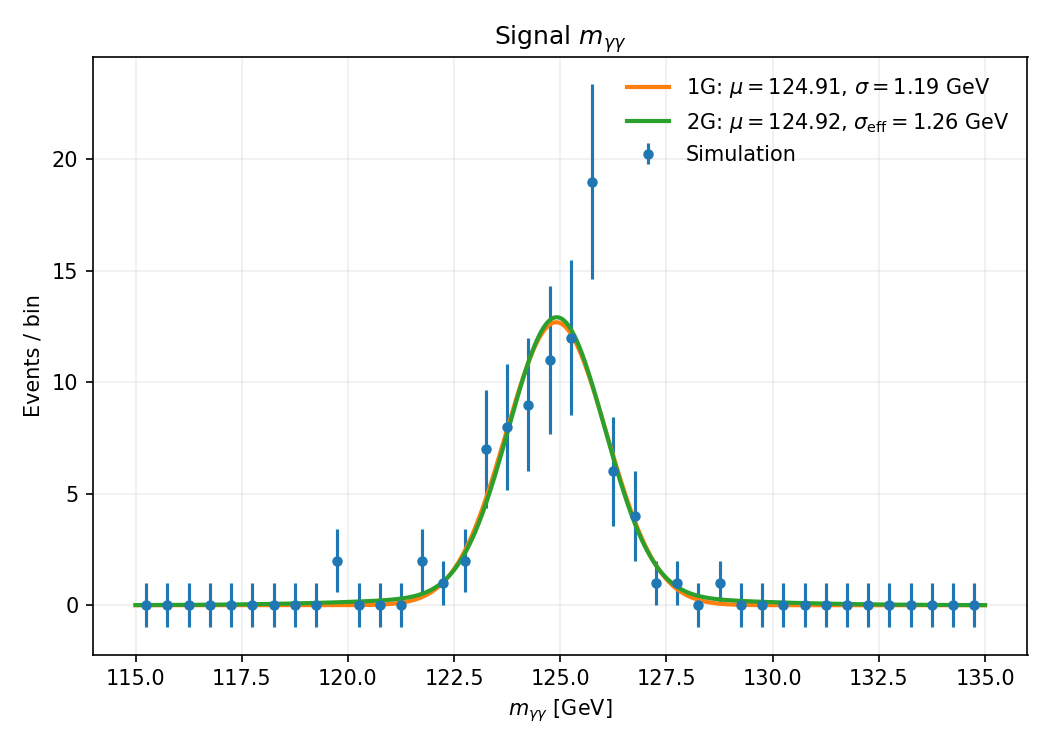
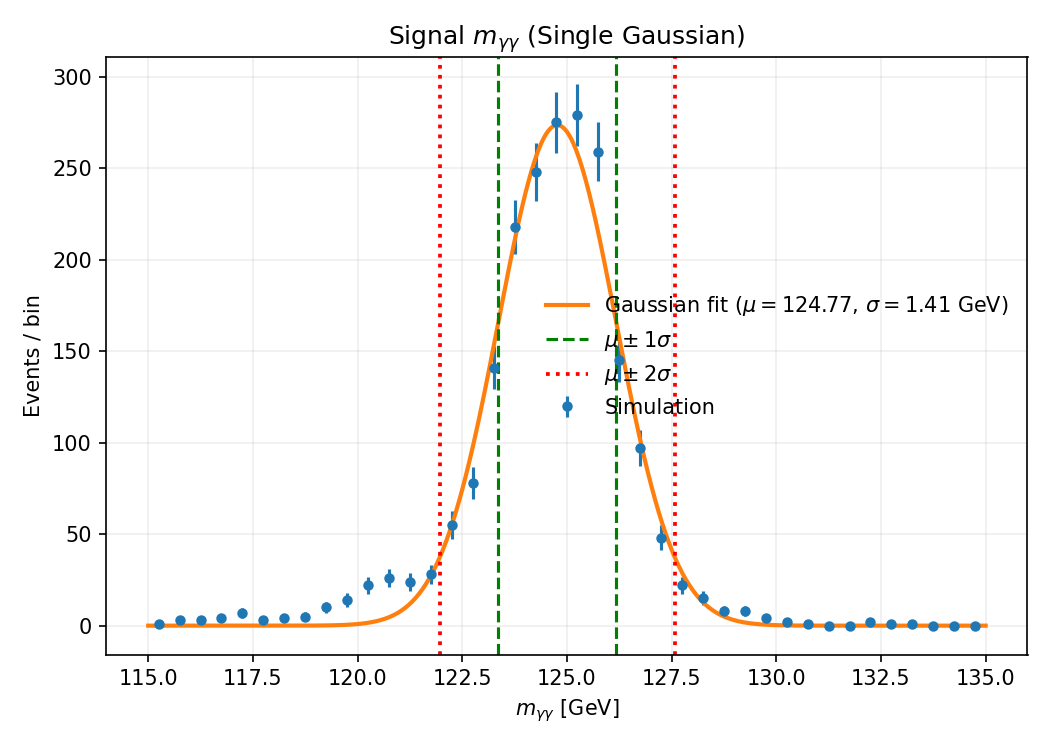
upadted

diff --git a/signal/two_sigma.py b/signal/two_sigma.py
@@ -149,24 +149,14 @@ BR_ISDATA = "isdata"
 
 
 # -----------------------
-# Gaussian models
+# Single Gaussian model
 # -----------------------
 def gauss(x, mu, sigma, norm):
     return norm * np.exp(-0.5 * ((x - mu) / sigma) ** 2)
 
 
-def double_gauss(x, mu, sigma1, sigma2, f, norm):
-    return norm * (
-        f * np.exp(-0.5 * ((x - mu) / sigma1) ** 2)
-        + (1.0 - f) * np.exp(-0.5 * ((x - mu) / sigma2) ** 2)
-    )
-
-
-# -----------------------
-# Main
-# -----------------------
 def main():
-    ap = argparse.ArgumentParser(description="Plot and fit signal mgg with Gaussians")
+    ap = argparse.ArgumentParser(description="Single-Gaussian fit and ±1σ/±2σ lines")
     ap.add_argument("--root", required=True)
     ap.add_argument("--signal-dir", required=True)
     ap.add_argument("--score-lo", type=float, default=None)
@@ -174,7 +164,7 @@ def main():
     ap.add_argument("--mgg-min", type=float, default=115.0)
     ap.add_argument("--mgg-max", type=float, default=135.0)
     ap.add_argument("--bins", type=int, default=40)
-    ap.add_argument("--out", default="signal_mgg_fit.png")
+    ap.add_argument("--out", default="mgg_single_gauss.png")
     args = ap.parse_args()
 
     # -----------------------
@@ -203,7 +193,7 @@ def main():
     mgg = ak.to_numpy(mgg)
 
     # -----------------------
-    # Mass window for fit
+    # Fit window
     # -----------------------
     fit_mask = (mgg >= args.mgg_min) & (mgg <= args.mgg_max)
     mgg_fit = mgg[fit_mask]
@@ -214,7 +204,9 @@ def main():
     # Histogram
     # -----------------------
     counts, edges = np.histogram(
-        mgg_fit, bins=args.bins, range=(args.mgg_min, args.mgg_max)
+        mgg_fit,
+        bins=args.bins,
+        range=(args.mgg_min, args.mgg_max),
     )
     centers = 0.5 * (edges[:-1] + edges[1:])
     errors = np.sqrt(np.maximum(counts, 1.0))
@@ -223,34 +215,29 @@ def main():
     # -----------------------
     # Single Gaussian fit
     # -----------------------
-    p0_1g = [125.0, 1.5, counts.sum() * binw]
-    popt_1g, _ = curve_fit(
-        gauss, centers, counts, p0=p0_1g, sigma=errors, absolute_sigma=True
-    )
+    p0 = [125.0, 1.5, counts.sum() * binw]
 
-    mu_1g, sigma_1g, _ = popt_1g
-
-    # -----------------------
-    # Double Gaussian fit
-    # -----------------------
-    p0_2g = [mu_1g, 1.0, 2.5, 0.7, counts.sum() * binw]
-    bounds = (
-        [120, 0.1, 0.1, 0.0, 0.0],
-        [130, 5.0, 10.0, 1.0, np.inf],
-    )
-
-    popt_2g, _ = curve_fit(
-        double_gauss,
+    popt, pcov = curve_fit(
+        gauss,
         centers,
         counts,
-        p0=p0_2g,
-        bounds=bounds,
+        p0=p0,
         sigma=errors,
         absolute_sigma=True,
     )
 
-    mu, s1, s2, f, _ = popt_2g
-    sigma_eff = np.sqrt(f * s1**2 + (1.0 - f) * s2**2)
+    mu, sigma, norm = popt
+    mu_err, sigma_err, _ = np.sqrt(np.diag(pcov))
+
+    m1_lo = mu - sigma
+    m1_hi = mu + sigma
+    m2_lo = mu - 2.0 * sigma
+    m2_hi = mu + 2.0 * sigma
+
+
+    print("\n[fit results]")
+    print(f"  mu    = {mu:.3f} ± {mu_err:.3f} GeV")
+    print(f"  sigma = {sigma:.3f} ± {sigma_err:.3f} GeV")
 
     # -----------------------
     # Plot
@@ -258,25 +245,29 @@ def main():
     xplot = np.linspace(args.mgg_min, args.mgg_max, 1000)
 
     plt.figure(figsize=(7, 5))
-    plt.errorbar(centers, counts, yerr=errors, fmt="o", ms=4, label="Simulation")
-
-    plt.plot(
-        xplot,
-        gauss(xplot, *popt_1g),
-        lw=2,
-        label=rf"1G: $\mu={mu_1g:.2f}$, $\sigma={sigma_1g:.2f}$ GeV",
+    plt.errorbar(
+        centers, counts, yerr=errors,
+        fmt="o", ms=4, label="Simulation"
     )
 
     plt.plot(
         xplot,
-        double_gauss(xplot, *popt_2g),
+        gauss(xplot, *popt),
         lw=2,
-        label=rf"2G: $\mu={mu:.2f}$, $\sigma_\mathrm{{eff}}={sigma_eff:.2f}$ GeV",
+        label=rf"Gaussian fit ($\mu={mu:.2f}$, $\sigma={sigma:.2f}$ GeV)",
     )
+
+    # ±1σ lines
+    plt.axvline(mu - sigma, color="green", ls="--", lw=1.5, label=r"$\mu \pm 1\sigma$")
+    plt.axvline(mu + sigma, color="green", ls="--", lw=1.5)
+
+    # ±2σ lines
+    plt.axvline(mu - 2*sigma, color="red", ls=":", lw=1.8, label=r"$\mu \pm 2\sigma$")
+    plt.axvline(mu + 2*sigma, color="red", ls=":", lw=1.8)
 
     plt.xlabel(r"$m_{\gamma\gamma}$ [GeV]")
     plt.ylabel("Events / bin")
-    plt.title("Signal $m_{\gamma\gamma}$")
+    plt.title("Signal $m_{\gamma\gamma}$ (Single Gaussian)")
     plt.legend(frameon=False)
     plt.grid(alpha=0.2)
 
@@ -284,9 +275,6 @@ def main():
     plt.savefig(args.out, dpi=150)
     plt.close()
 
-    print("\n[results]")
-    print(f"  1G: mu = {mu_1g:.3f}, sigma = {sigma_1g:.3f}")
-    print(f"  2G: mu = {mu:.3f}, sigma_eff = {sigma_eff:.3f}")
     print(f"[saved] {args.out}")
 
 

diff --git a/command.md b/command.md
@@ -139,7 +139,13 @@ echo $CMSSW_BASE
      ```
 
 
+# Eos sapce (lxplus)
 
+```bash
+ssh yourCERNusername@lxplus.cern.ch
+export EOS_MGM_URL=root://eosuser.cern.ch
+eos quota
+```
 
 
 
